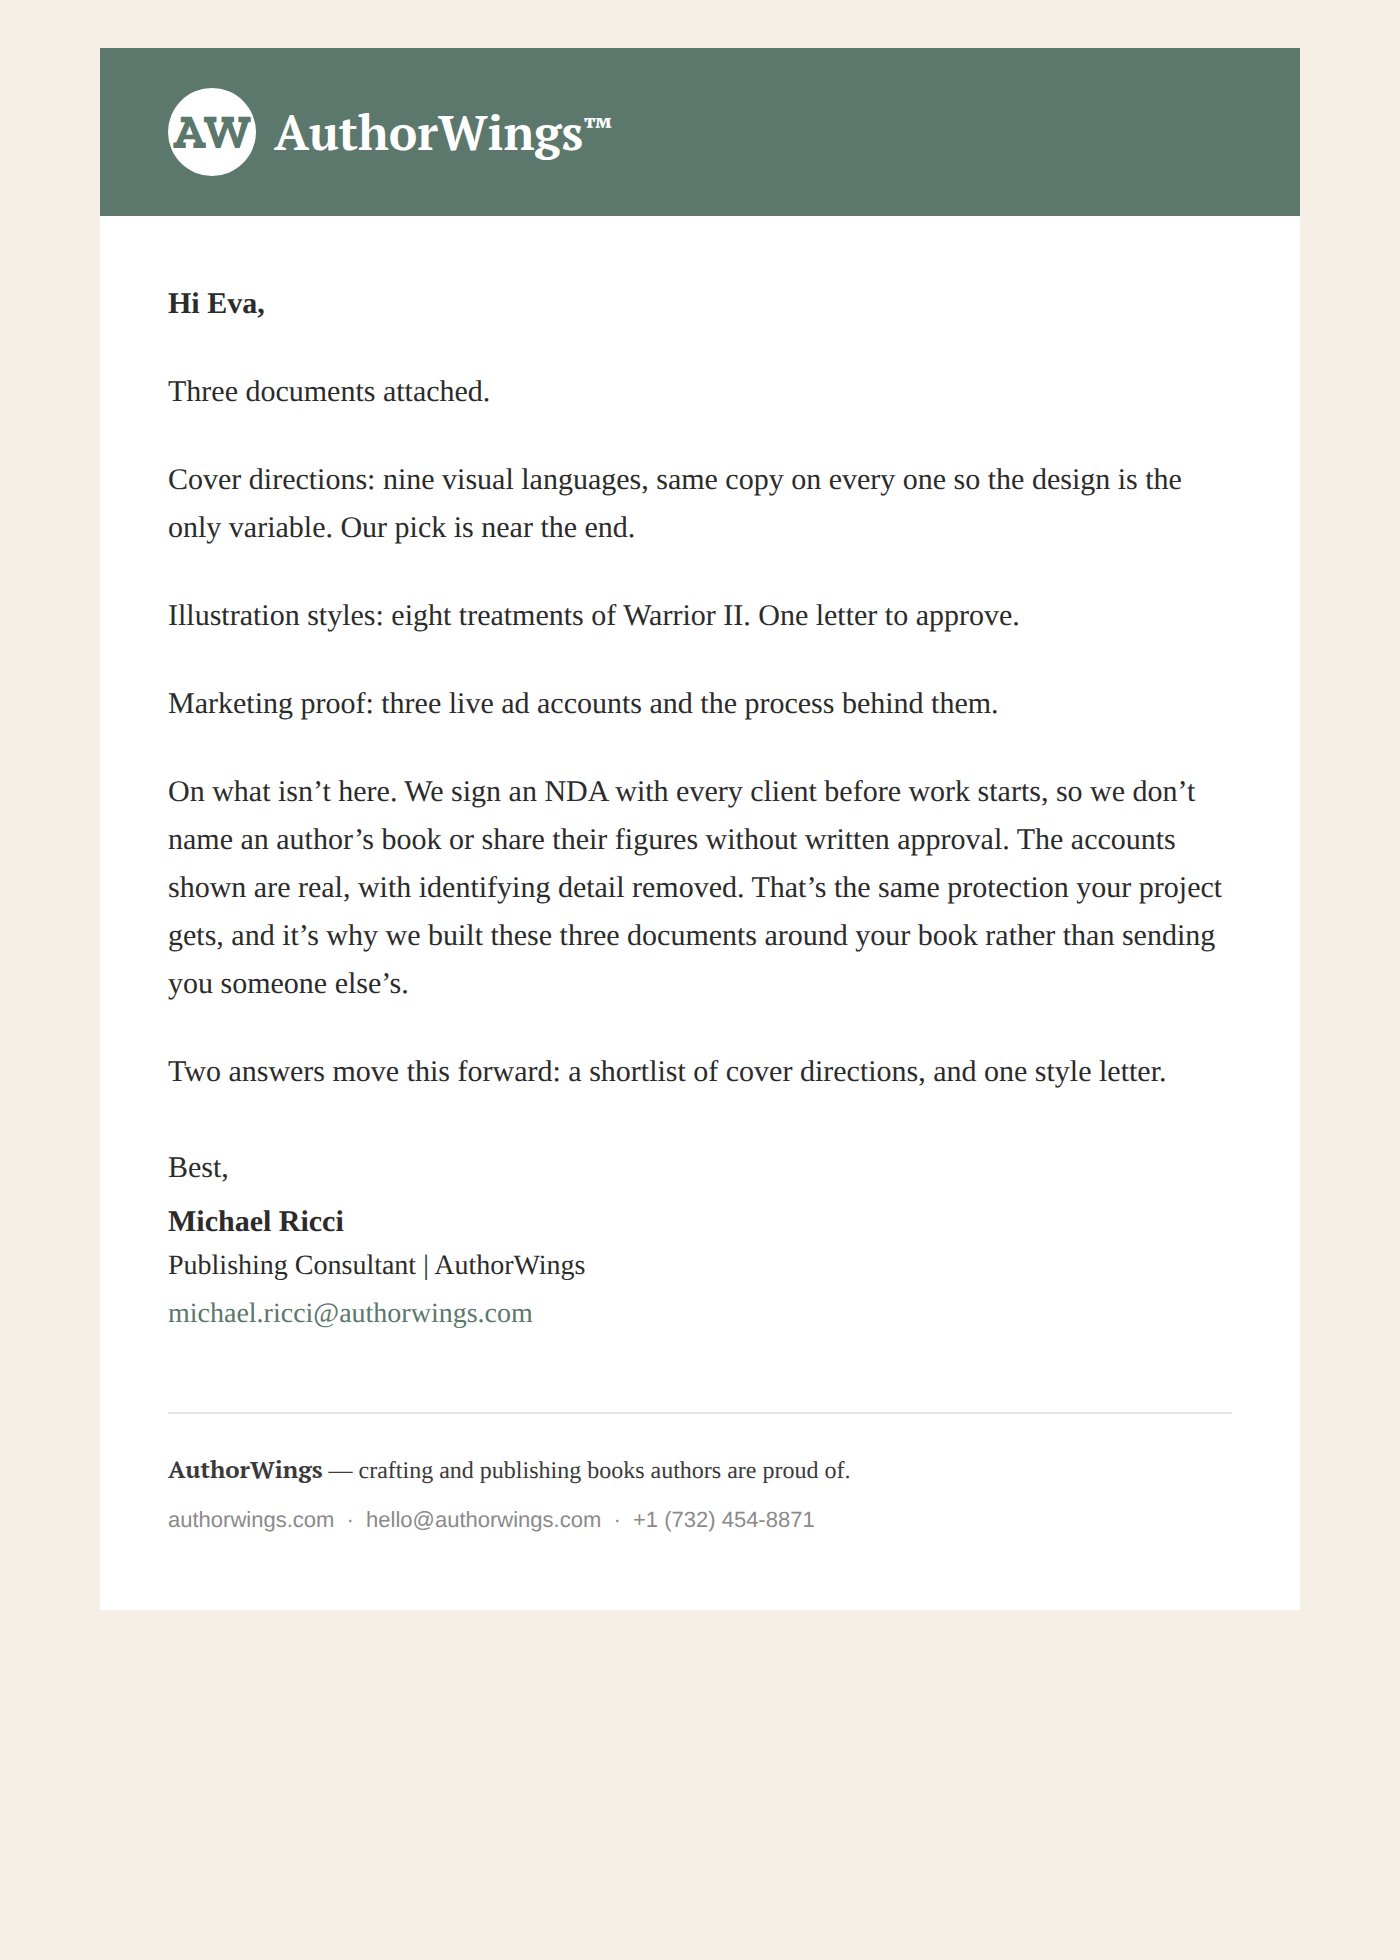
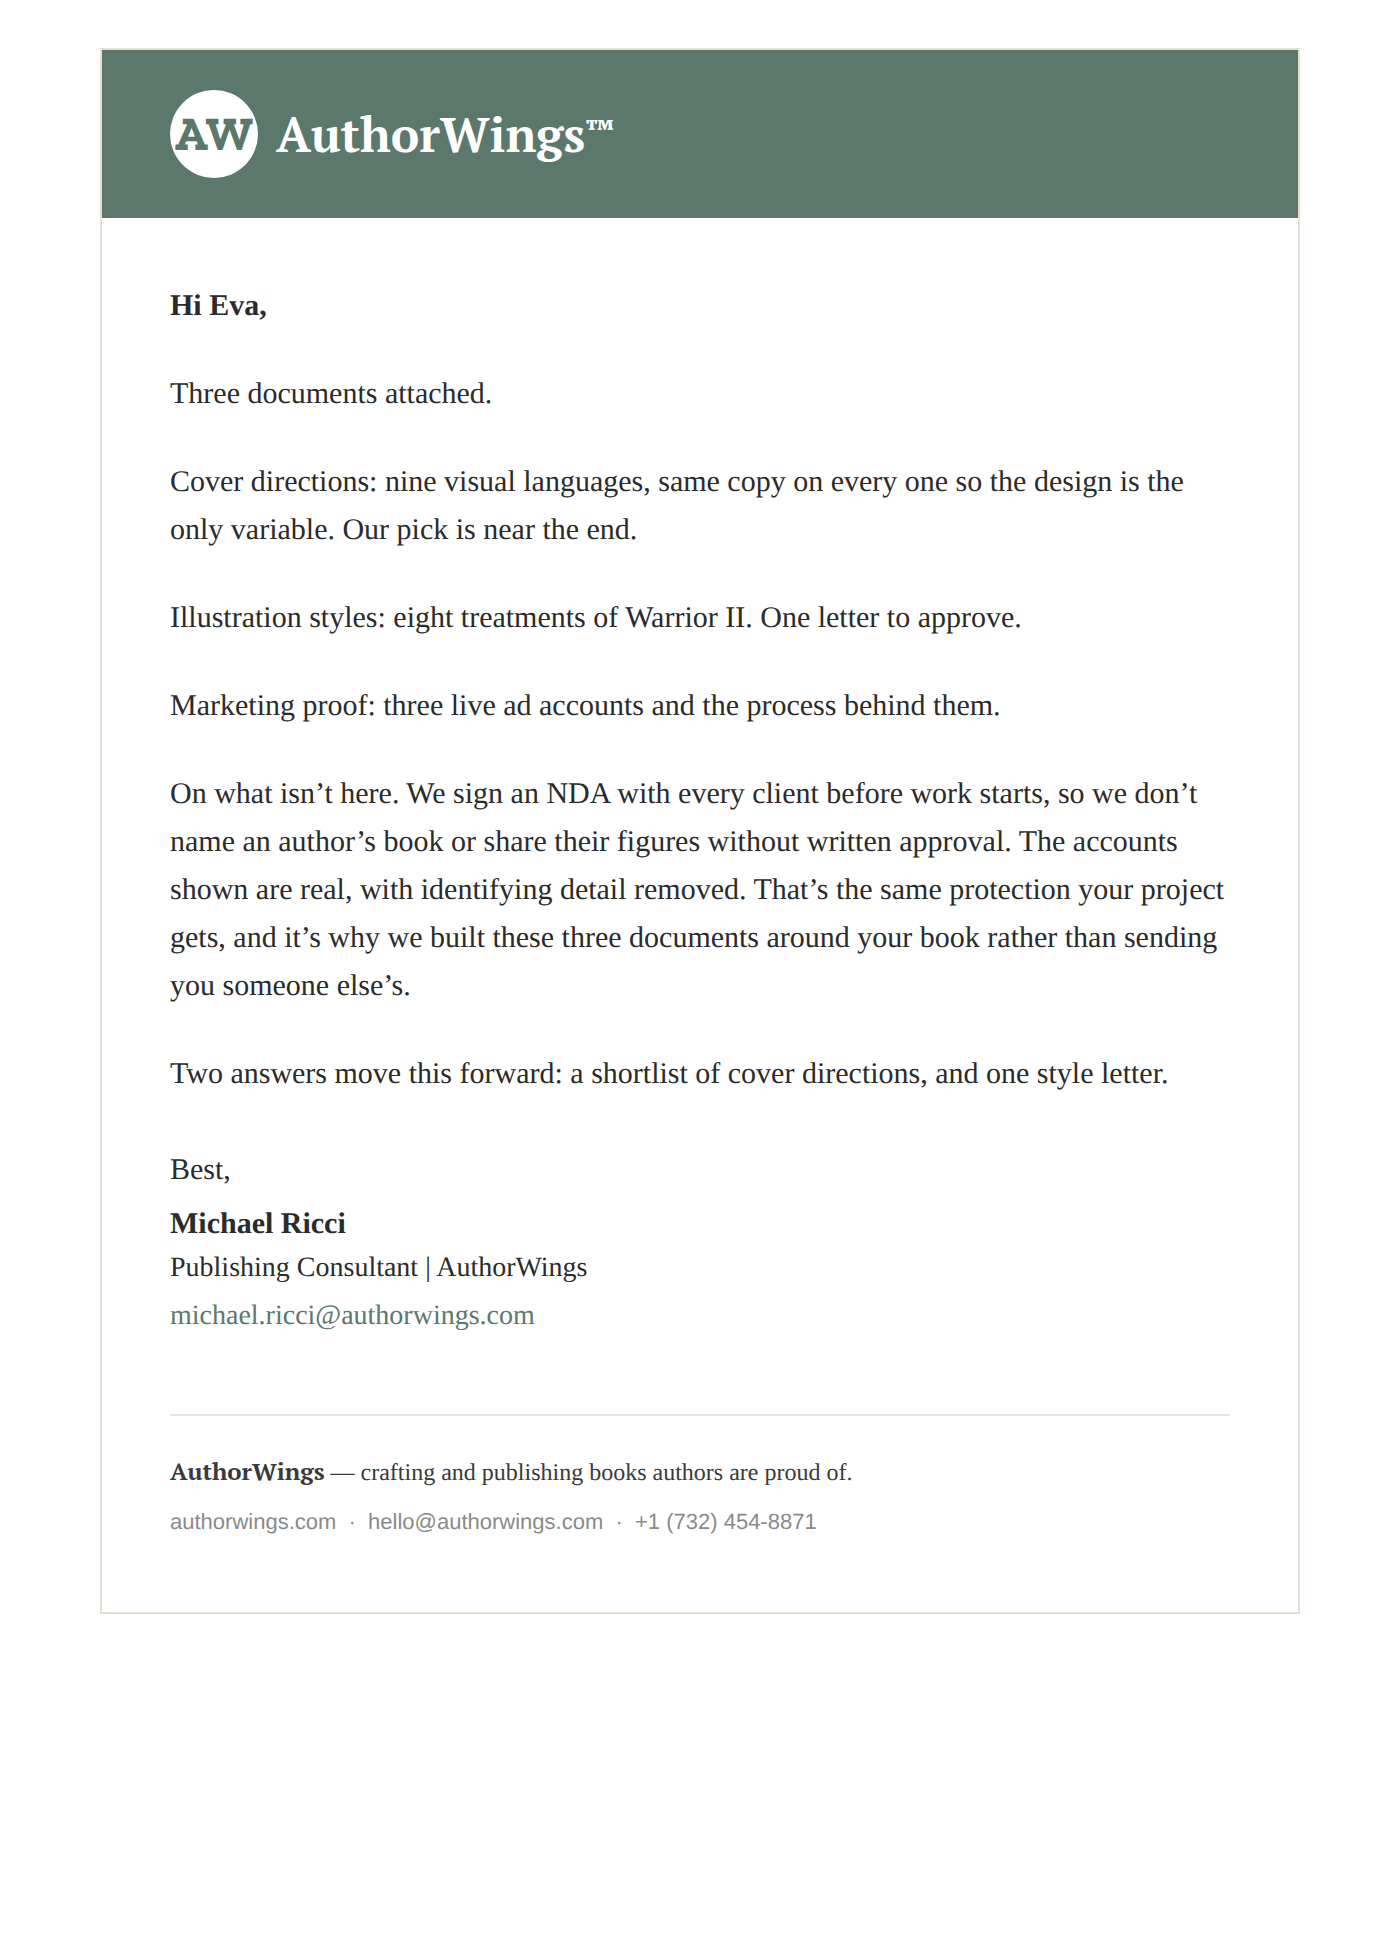
Drop the cream wash and outline the card instead
Page background returns to white and the 600px card gains a 1px #E5DFD4
border, so the email reads as a bordered card rather than a tinted page.

diff --git a/email/authorwings-email-template.html b/email/authorwings-email-template.html
@@ -39,7 +39,7 @@
 <![endif]-->
 </head>
 
-<body style="margin:0; padding:0; background-color:#F5EFE5;">
+<body style="margin:0; padding:0; background-color:#FFFFFF;">
 
 <!-- PREHEADER: the line shown next to the subject in the inbox. Replace it;
      it stays hidden inside the email itself. -->
@@ -48,7 +48,7 @@
   &#847;&zwnj;&nbsp;&#847;&zwnj;&nbsp;&#847;&zwnj;&nbsp;&#847;&zwnj;&nbsp;&#847;&zwnj;&nbsp;&#847;&zwnj;&nbsp;&#847;&zwnj;&nbsp;&#847;&zwnj;&nbsp;
 </div>
 
-<table role="presentation" width="100%" cellpadding="0" cellspacing="0" border="0" style="background-color:#F5EFE5;">
+<table role="presentation" width="100%" cellpadding="0" cellspacing="0" border="0" style="background-color:#FFFFFF;">
   <tr>
     <td align="center" style="padding:24px 12px;">
 
@@ -57,7 +57,7 @@
       <![endif]-->
 
       <table role="presentation" class="aw-wrap" width="600" cellpadding="0" cellspacing="0" border="0"
-             style="width:600px; max-width:600px; background-color:#FFFFFF;">
+             style="width:600px; max-width:600px; background-color:#FFFFFF; border:1px solid #E5DFD4;">
 
         <!-- ============================================================
              AUTHORWINGS EMAIL HEADER

diff --git a/email/authorwings-email-template-image-logo.html b/email/authorwings-email-template-image-logo.html
@@ -32,7 +32,7 @@
 <![endif]-->
 </head>
 
-<body style="margin:0; padding:0; background-color:#F5EFE5;">
+<body style="margin:0; padding:0; background-color:#FFFFFF;">
 
 <!-- PREHEADER: the line shown next to the subject in the inbox. Replace it;
      it stays hidden inside the email itself. -->
@@ -41,7 +41,7 @@
   &#847;&zwnj;&nbsp;&#847;&zwnj;&nbsp;&#847;&zwnj;&nbsp;&#847;&zwnj;&nbsp;&#847;&zwnj;&nbsp;&#847;&zwnj;&nbsp;&#847;&zwnj;&nbsp;&#847;&zwnj;&nbsp;
 </div>
 
-<table role="presentation" width="100%" cellpadding="0" cellspacing="0" border="0" style="background-color:#F5EFE5;">
+<table role="presentation" width="100%" cellpadding="0" cellspacing="0" border="0" style="background-color:#FFFFFF;">
   <tr>
     <td align="center" style="padding:24px 12px;">
 
@@ -50,7 +50,7 @@
       <![endif]-->
 
       <table role="presentation" class="aw-wrap" width="600" cellpadding="0" cellspacing="0" border="0"
-             style="width:600px; max-width:600px; background-color:#FFFFFF;">
+             style="width:600px; max-width:600px; background-color:#FFFFFF; border:1px solid #E5DFD4;">
 
         <!-- ============================================================
              HEADER - image version.

diff --git a/email/authorwings-email-inline.html b/email/authorwings-email-inline.html
@@ -1,9 +1,9 @@
-<!-- Cream page background. Change #F5EFE5 in the two places below to restyle it. -->
-<table role="presentation" width="100%" cellpadding="0" cellspacing="0" border="0" bgcolor="#F5EFE5" style="background-color:#F5EFE5; border-collapse:collapse;">
+<!-- Cream page background. Change #FFFFFF in the two places below to restyle it. -->
+<table role="presentation" width="100%" cellpadding="0" cellspacing="0" border="0" bgcolor="#FFFFFF" style="background-color:#FFFFFF; border-collapse:collapse;">
   <tr>
     <td align="center" style="padding:24px 12px;">
 
-<table role="presentation" width="600" cellpadding="0" cellspacing="0" border="0" style="width:600px; max-width:600px; background-color:#FFFFFF; border-collapse:collapse;">
+<table role="presentation" width="600" cellpadding="0" cellspacing="0" border="0" style="width:600px; max-width:600px; background-color:#FFFFFF; border:1px solid #E5DFD4; border-collapse:collapse;">
 
   <!-- ===================== HEADER ===================== -->
   <tr>

diff --git a/email/authorwings-email-header.html b/email/authorwings-email-header.html
@@ -38,9 +38,9 @@
 <![endif]-->
 </head>
 
-<body style="margin:0; padding:0; background-color:#F5EFE5;">
+<body style="margin:0; padding:0; background-color:#FFFFFF;">
 
-<table role="presentation" width="100%" cellpadding="0" cellspacing="0" border="0" style="background-color:#F5EFE5;">
+<table role="presentation" width="100%" cellpadding="0" cellspacing="0" border="0" style="background-color:#FFFFFF;">
   <tr>
     <td align="center" style="padding:24px 12px;">
 
@@ -49,7 +49,7 @@
       <![endif]-->
 
       <table role="presentation" class="aw-wrap" width="600" cellpadding="0" cellspacing="0" border="0"
-             style="width:600px; max-width:600px;">
+             style="width:600px; max-width:600px; border:1px solid #E5DFD4;">
 
         <!-- ============================================================
              AUTHORWINGS EMAIL HEADER
